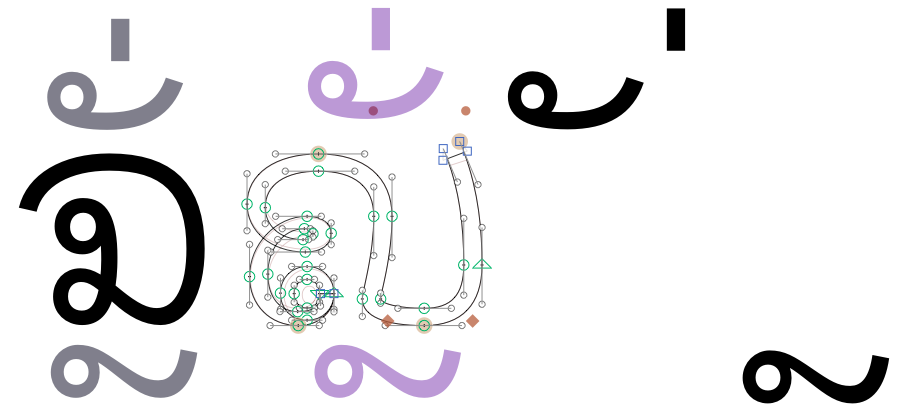
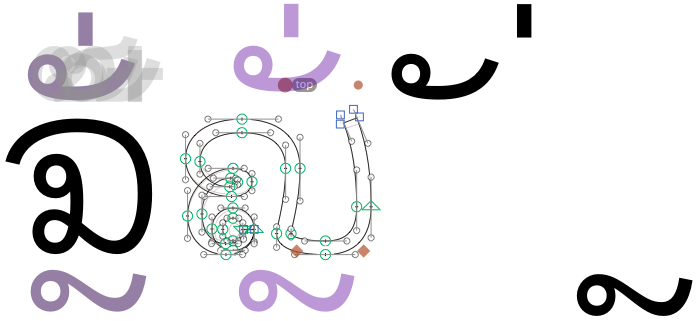
Fix a bug where it would not display marks that follow a mark which does not have a stacking anchor (thx @ohbendy).
Plus: color tweak, new screenshot for readme.

diff --git a/ShowMarkPreview.glyphsReporter/Contents/Resources/plugin.py b/ShowMarkPreview.glyphsReporter/Contents/Resources/plugin.py
@@ -93,19 +93,20 @@ class ShowMarkPreview(ReporterPlugin):
 									displayMark.transformUsingAffineTransform_(displayShift)
 									displayMark.fill()
 									
-									# shift and store next anchor position
-									nextAnchorX = stackingAnchor.x + shiftX
-									nextAnchorY = stackingAnchor.y + shiftY
-									anchorDict[stackingAnchorName] = NSPoint( nextAnchorX, nextAnchorY )
+									# shift and store next anchor position (if exists)
+									if stackingAnchor:
+										nextAnchorX = stackingAnchor.x + shiftX
+										nextAnchorY = stackingAnchor.y + shiftY
+										anchorDict[stackingAnchorName] = NSPoint( nextAnchorX, nextAnchorY )
 	
 	def foreground(self, layer):
-		color = NSColor.colorWithRed_green_blue_alpha_(0.3, 0.1, 0.6, 0.4)
+		color = NSColor.colorWithRed_green_blue_alpha_(0.3, 0.0, 0.6, 0.4)
 		color.set()
 		self.drawMarksOnLayer(layer)
 
 	def inactiveLayers(self, layer):
 		self.shouldDrawAccentCloudForLayer_(layer)
-		color = NSColor.colorWithRed_green_blue_alpha_(0.0, 0.0, 0.1, 0.5)
+		color = NSColor.colorWithRed_green_blue_alpha_(0.15, 0.05, 0.3, 0.5)
 		color.set()
 		self.drawMarksOnLayer(layer)
 	
